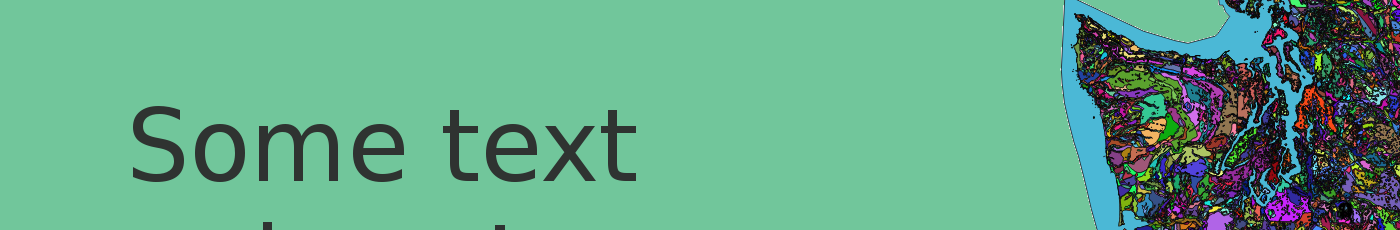
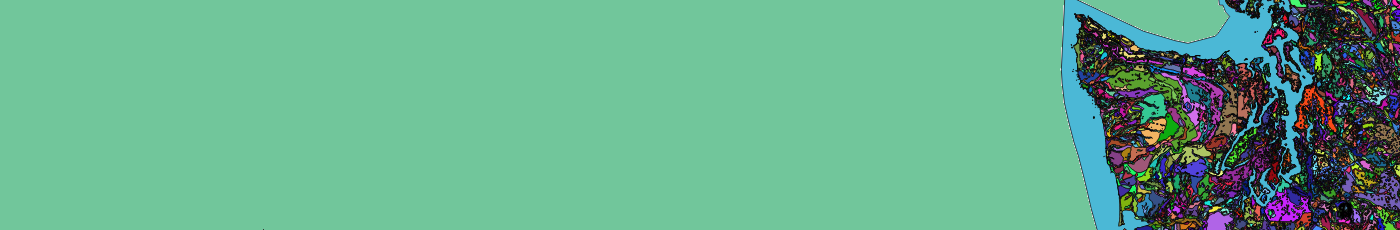
removed tagline from inner-head

Changed region(s): [[0.0921, 0.4565, 0.4607, 0.7913], [0.3379, 0.9739, 0.3686, 1.0], [0.1843, 0.9739, 0.215, 1.0]]

diff --git a/_site/data analysis/range-modeling/index.html b/_site/data analysis/range-modeling/index.html
@@ -359,7 +359,7 @@
 				<div class="unit-head">
 					<div class="unit-inner unit-head-inner">
             <h1 class="h2 entry-title">Range Modeling</h1> 
-            <h2 class="h2 entry-title">Creating a species range model</h2>
+            <!--            <h2 class="h2 entry-title">Creating a species range model</h2> -->
 
 
 

diff --git a/_site/data collection/credible-sources/index.html b/_site/data collection/credible-sources/index.html
@@ -359,7 +359,7 @@
 				<div class="unit-head">
 					<div class="unit-inner unit-head-inner">
             <h1 class="h2 entry-title">Credible Data Sources</h1> 
-            <h2 class="h2 entry-title">Supporting tagline</h2>
+            <!--            <h2 class="h2 entry-title">Supporting tagline</h2> -->
 
 
 

diff --git a/_site/intro/what/index.html b/_site/intro/what/index.html
@@ -359,7 +359,7 @@
 				<div class="unit-head">
 					<div class="unit-inner unit-head-inner">
             <h1 class="h2 entry-title">Is Spatial Special?</h1> 
-            <h2 class="h2 entry-title">Supporting tagline</h2>
+            <!--            <h2 class="h2 entry-title">Supporting tagline</h2> -->
 
 
 

diff --git a/_site/data wrangling/functions/index.html b/_site/data wrangling/functions/index.html
@@ -359,7 +359,7 @@
 				<div class="unit-head">
 					<div class="unit-inner unit-head-inner">
             <h1 class="h2 entry-title">General Functions</h1> 
-            <h2 class="h2 entry-title">Supporting tagline</h2>
+            <!--            <h2 class="h2 entry-title">Supporting tagline</h2> -->
 
 
 

diff --git a/_site/cartography/web-mapping/index.html b/_site/cartography/web-mapping/index.html
@@ -359,7 +359,7 @@
 				<div class="unit-head">
 					<div class="unit-inner unit-head-inner">
             <h1 class="h2 entry-title">Web Mapping</h1> 
-            <h2 class="h2 entry-title">interactive web maps</h2>
+            <!--            <h2 class="h2 entry-title">interactive web maps</h2> -->
 
 
 

diff --git a/_includes/themes/the-minimum/post.html b/_includes/themes/the-minimum/post.html
@@ -24,7 +24,7 @@
 				<div class="unit-head">
 					<div class="unit-inner unit-head-inner">
             <h1 class="h2 entry-title">{{ page.title }}</h1> 
-            <h2 class="h2 entry-title">{{ page.tagline }}</h2>
+            <!--            <h2 class="h2 entry-title">{{ page.tagline }}</h2> -->
 
 
 

diff --git a/_site/data wrangling/data-wrangling/index.html b/_site/data wrangling/data-wrangling/index.html
@@ -359,7 +359,7 @@
 				<div class="unit-head">
 					<div class="unit-inner unit-head-inner">
             <h1 class="h2 entry-title">Data Wrangling</h1> 
-            <h2 class="h2 entry-title">Supporting tagline</h2>
+            <!--            <h2 class="h2 entry-title">Supporting tagline</h2> -->
 
 
 

diff --git a/_site/distribution/distribution/index.html b/_site/distribution/distribution/index.html
@@ -359,7 +359,7 @@
 				<div class="unit-head">
 					<div class="unit-inner unit-head-inner">
             <h1 class="h2 entry-title">Distribution</h1> 
-            <h2 class="h2 entry-title">Supporting tagline</h2>
+            <!--            <h2 class="h2 entry-title">Supporting tagline</h2> -->
 
 
 

diff --git a/_site/intro/intro/index.html b/_site/intro/intro/index.html
@@ -359,7 +359,7 @@
 				<div class="unit-head">
 					<div class="unit-inner unit-head-inner">
             <h1 class="h2 entry-title">Spatial Data</h1> 
-            <h2 class="h2 entry-title">Supporting tagline</h2>
+            <!--            <h2 class="h2 entry-title">Supporting tagline</h2> -->
 
 
 

diff --git a/_site/data analysis/case-study/index.html b/_site/data analysis/case-study/index.html
@@ -359,7 +359,7 @@
 				<div class="unit-head">
 					<div class="unit-inner unit-head-inner">
             <h1 class="h2 entry-title">Case Study</h1> 
-            <h2 class="h2 entry-title">Supporting tagline</h2>
+            <!--            <h2 class="h2 entry-title">Supporting tagline</h2> -->
 
 
 

diff --git a/_site/cartography/map-types/index.html b/_site/cartography/map-types/index.html
@@ -359,7 +359,7 @@
 				<div class="unit-head">
 					<div class="unit-inner unit-head-inner">
             <h1 class="h2 entry-title">Map Types</h1> 
-            <h2 class="h2 entry-title">Supporting tagline</h2>
+            <!--            <h2 class="h2 entry-title">Supporting tagline</h2> -->
 
 
 

diff --git a/_site/data analysis/netcdf/index.html b/_site/data analysis/netcdf/index.html
@@ -359,7 +359,7 @@
 				<div class="unit-head">
 					<div class="unit-inner unit-head-inner">
             <h1 class="h2 entry-title">NetCDF</h1> 
-            <h2 class="h2 entry-title">Supporting tagline</h2>
+            <!--            <h2 class="h2 entry-title">Supporting tagline</h2> -->
 
 
 
